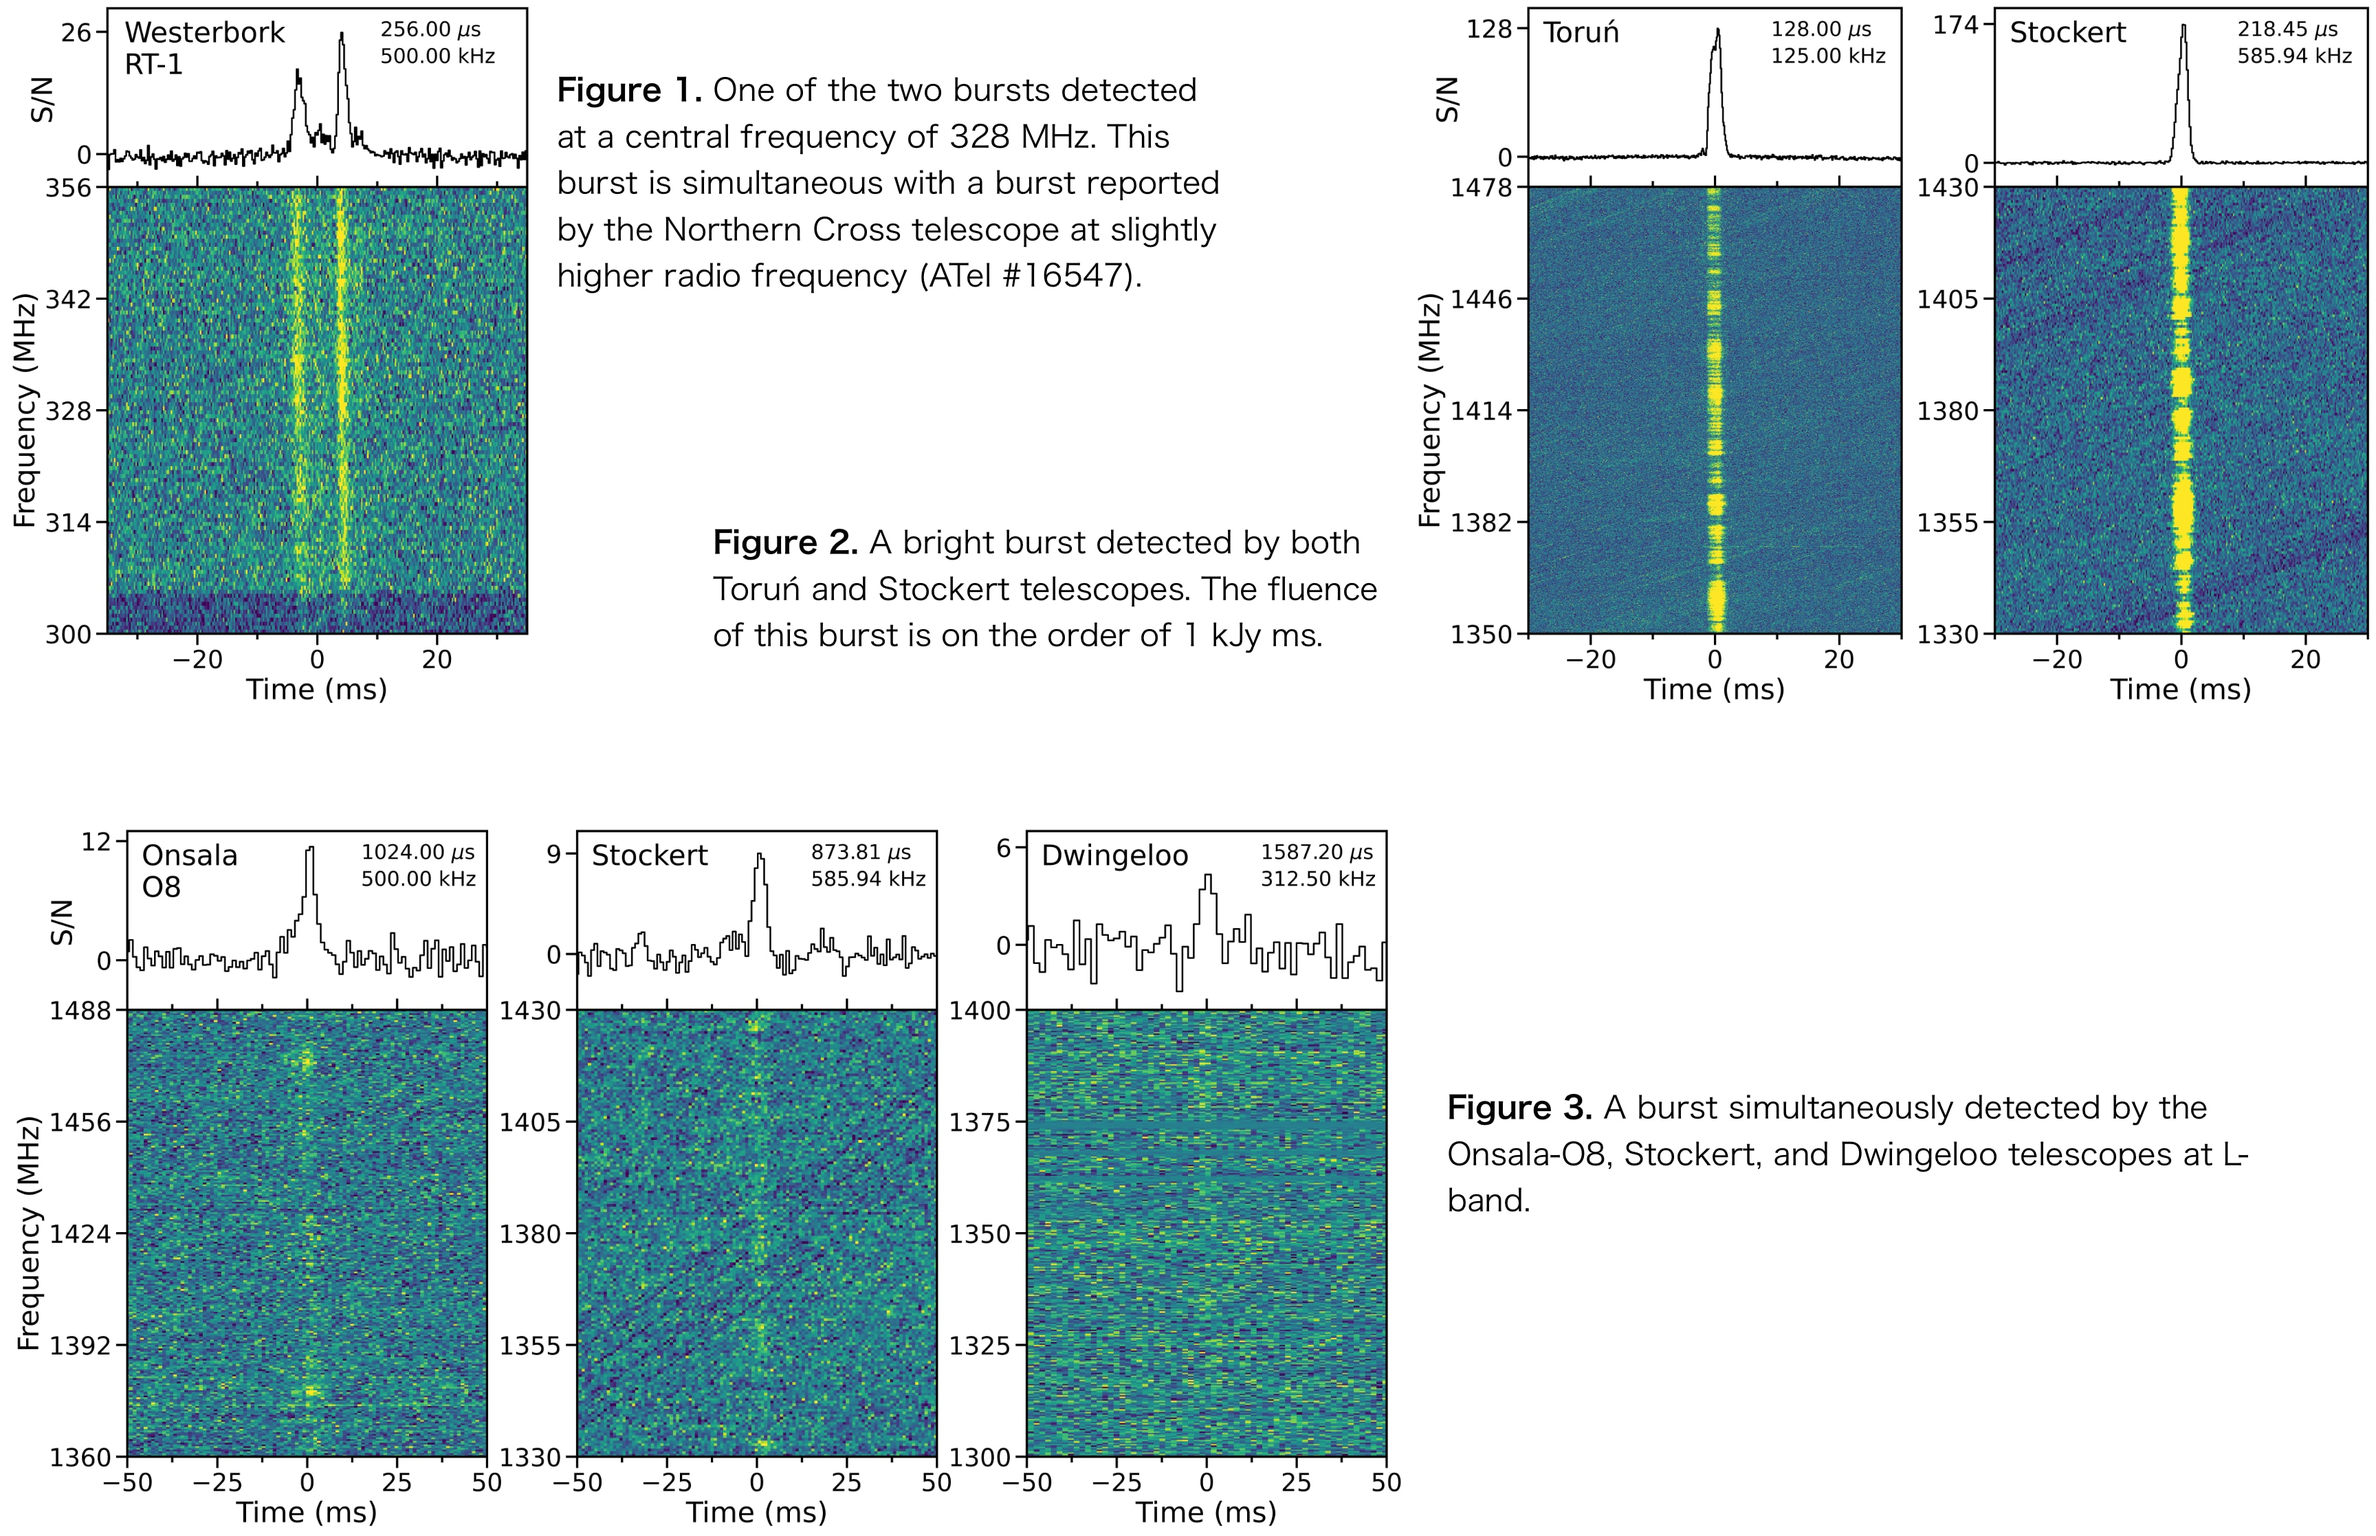
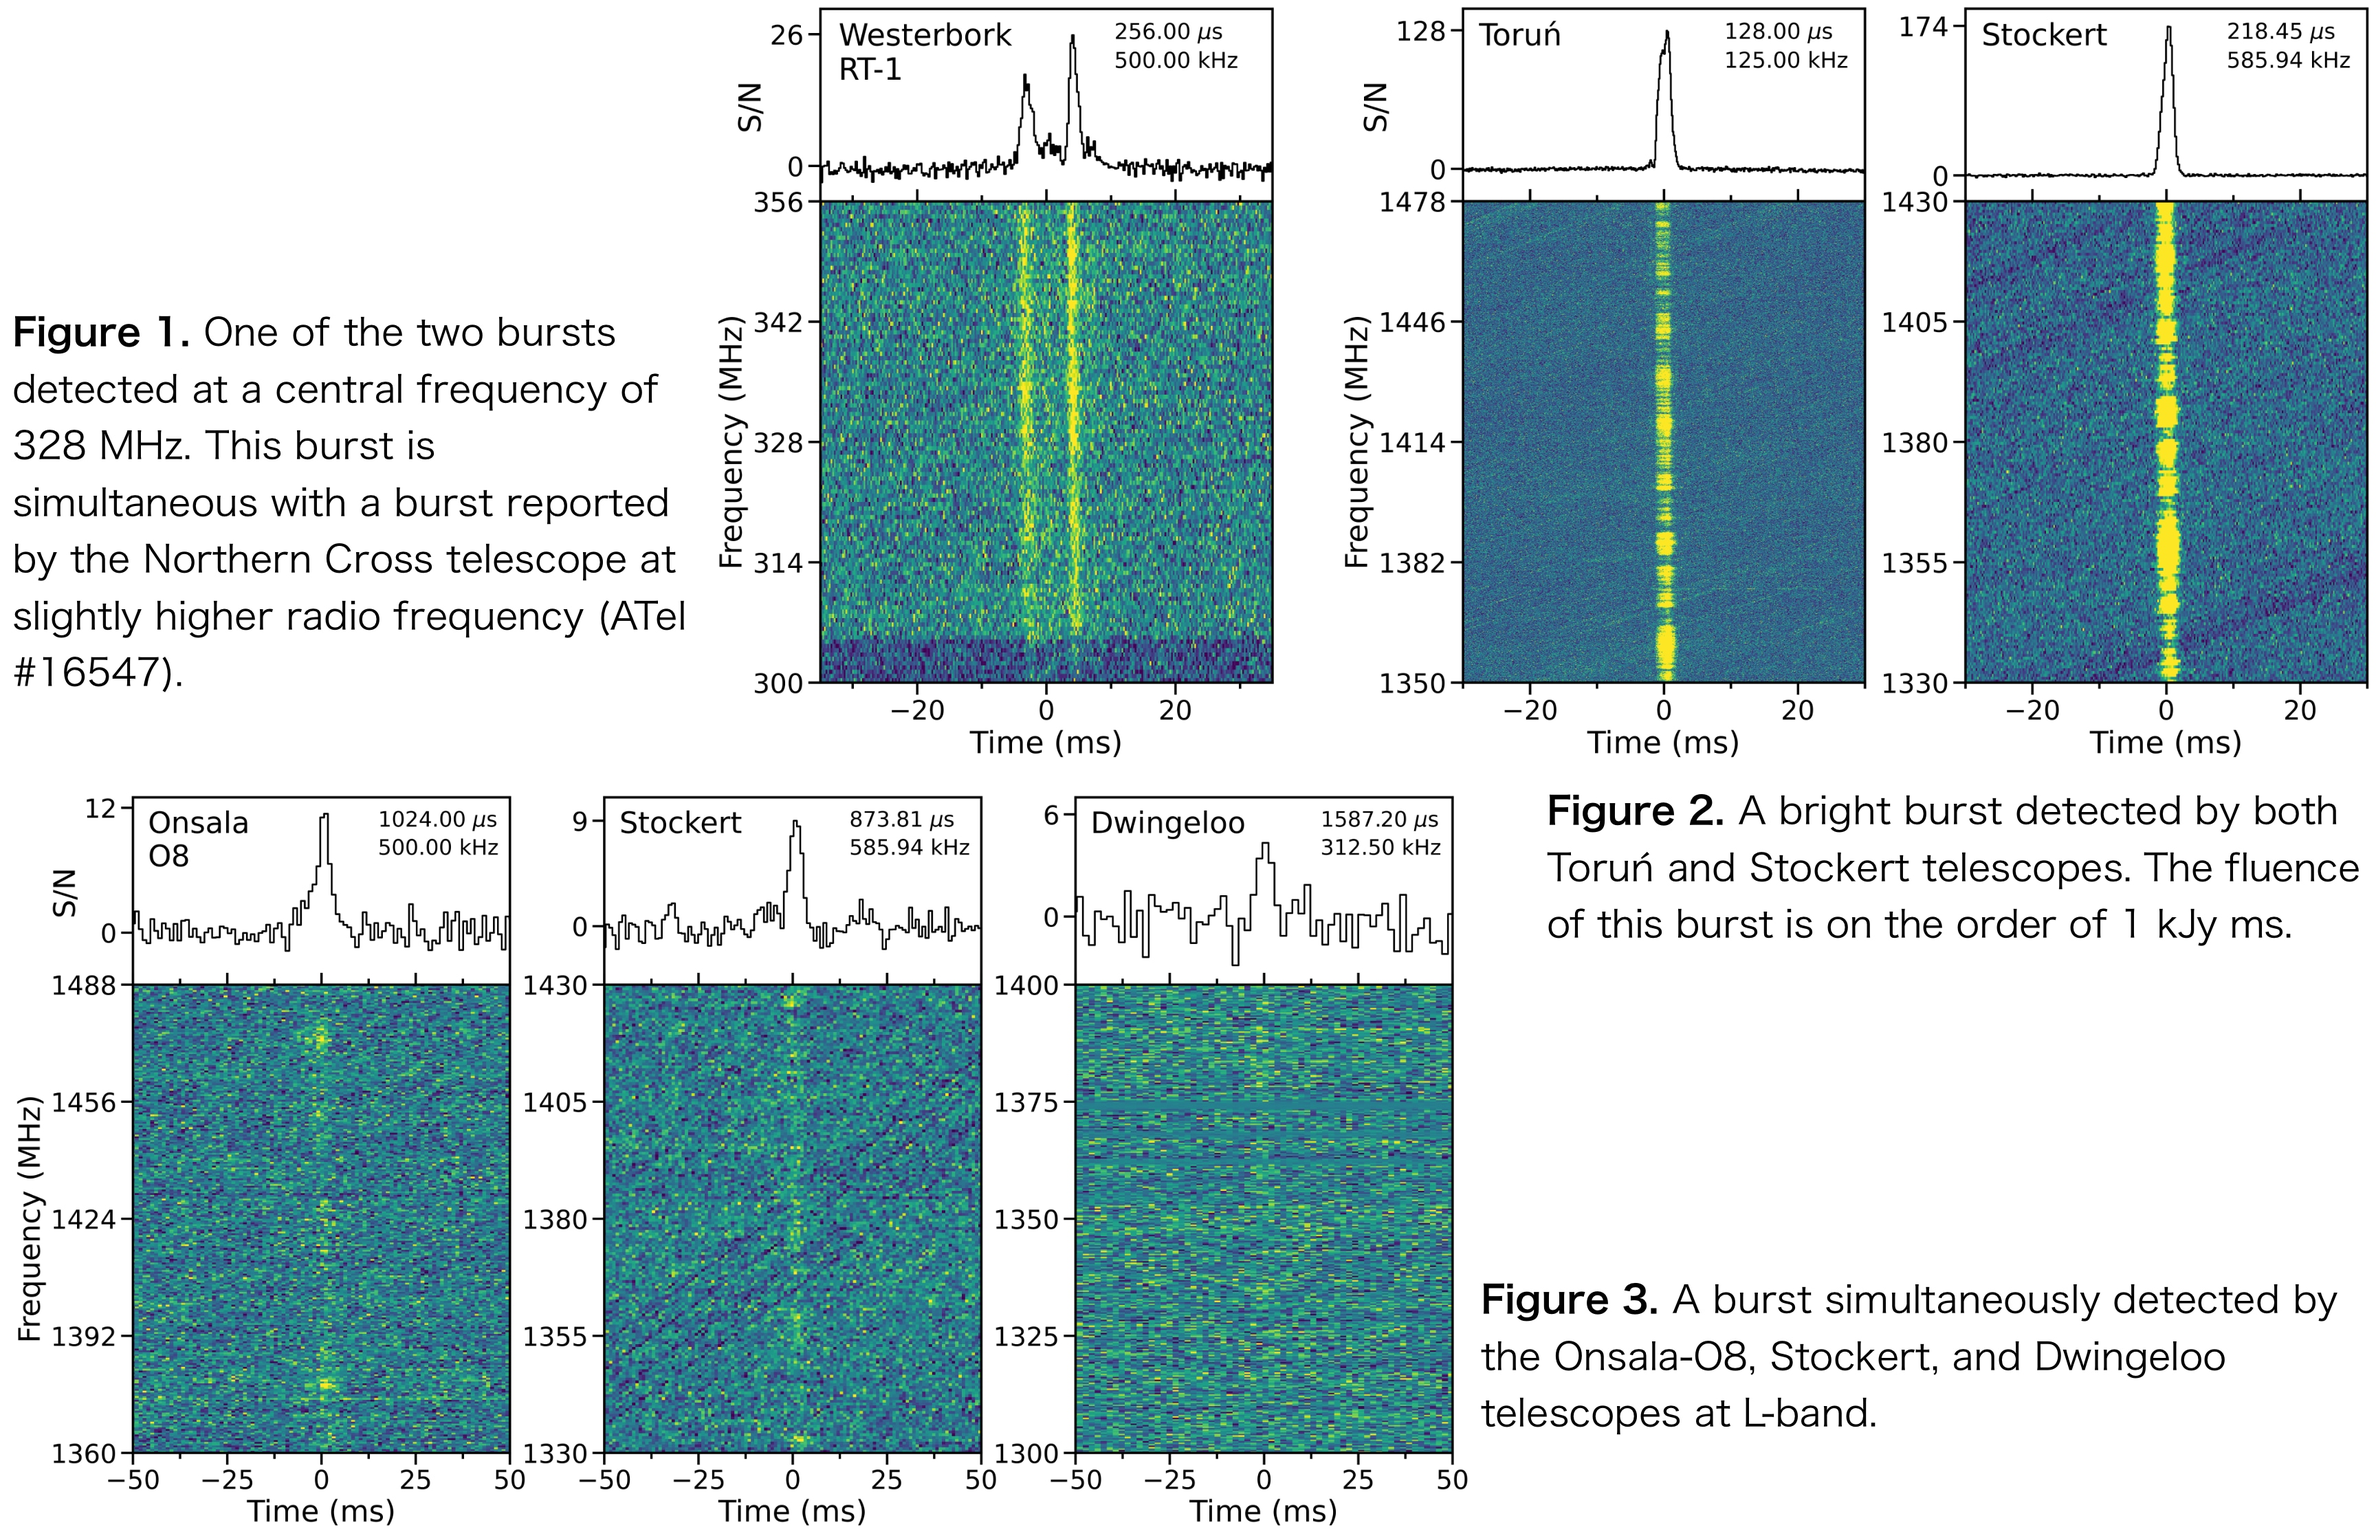
Small re-design of figure and Atel

diff --git a/blog.html b/blog.html
@@ -118,7 +118,7 @@
 			<div class="col-12">
 				<div class="isotope-nav justify-content-center" data-isotope-nav="isotope">
                     <ul>
-<li><a href="portfolio-classic.html#" class="active" data-filter="*">All</a></li><li><a href="portfolio-classic.html#" data-filter=".other">Other</a></li><li><a href="portfolio-classic.html#" data-filter=".paper">Papers</a></li><li><a href="portfolio-classic.html#" data-filter=".atel">ATels</a></li></ul>
+<li><a href="portfolio-classic.html#" class="active" data-filter="*">All</a></li><li><a href="portfolio-classic.html#" data-filter=".paper">Papers</a></li><li><a href="portfolio-classic.html#" data-filter=".other">Other</a></li><li><a href="portfolio-classic.html#" data-filter=".atel">ATels</a></li></ul>
 				</div>
 			</div>
 		</div><!-- Isotope filter end -->
@@ -145,8 +145,8 @@
                         </div>
                     </div>
                     <div class="post-body">
-                        <p>We report on our ongoing high-cadence monitoring campaign of the actively repeating fast radio burst source FRB 20240114 (<a href='http://astronomerstelegram.org/?read=16420'>ATel #16420</a>). Since its discovery by CHIME/FRB in January 2024 (<a href='http://astronomerstelegram.org/?read=16420'>ATel #16420</a>), we have been observing FRB 20240114 daily at P-band (0.33 GHz), L-band (1.4 GHz) and C-band (4.5 GHz) using a set of five small 25-32 meter European radio telescopes. The participating telescopes are the 25-m RT-1 Westerbork dish (the Netherlands), the 25-m Stockert dish (Germany), the 32-m Torun dish (Poland), the 25-m O8 Onsala dish (Sweden), and the 25-m Dwingeloo dish (the Netherlands). Whenever possible, the telescopes observe simultaneously at complementary wavelengths.<br>
-To date, we have accumulated over 1250 hours of exposure time between all five telescopes, which reduces to 600 hours of unique on-source time when accounting for simultaneous observations. So far, we have detected 111 unique bursts, of which 34 were detected by multiple telescopes at the same time, though never at multiple frequency bands simultaneously. All bursts have a fluence higher than our completeness threshold of about 10 Jy ms and the brightest bursts have a fluence on the order of 1 kJy ms. Two bursts were detected at P-band: we previously reported one of these (<a href='http://astronomerstelegram.org/?read=16432'>ATel #16432</a>) and the second is simultaneous with a burst reported by the Northern Cross telescope at slightly higher radio frequency (<a href='http://astronomerstelegram.org/?read=16547'>ATel #16547</a>). The other 109 bursts are all detected at L-band; we have not detected bursts at C-band.<br>
+                        <p>We report on our ongoing high-cadence monitoring campaign of the actively repeating fast radio burst source FRB 20240114 (<a href='http://astronomerstelegram.org/?read=16420'>ATel #16420</a>). Since its discovery by CHIME/FRB in January 2024 (<a href='http://astronomerstelegram.org/?read=16420'>ATel #16420</a>), we have been observing FRB 20240114 daily at P-band (0.33 GHz), L-band (1.4 GHz) and C-band (4.5 GHz) using a set of five small 25-32 meter European radio telescopes. The participating telescopes are the 25-m RT-1 Westerbork telescope (the Netherlands), the 25-m Stockert telescope (Germany), the 32-m Torun telescope (Poland), the 25-m Onsala O8 telescope (Sweden), and the 25-m Dwingeloo dish (the Netherlands). Whenever possible, the telescopes observe simultaneously at complementary wavelengths.<br><br>
+To date, we have accumulated over 1250 hours of exposure time between all five telescopes, which reduces to 600 hours of unique on-source time when accounting for simultaneous observations. So far, we have detected 111 unique bursts, of which 34 were detected by multiple telescopes at the same time, though never at multiple frequency bands simultaneously. All bursts have a fluence higher than our completeness threshold of about 10 Jy ms and the brightest bursts have a fluence on the order of 1 kJy ms. Two bursts were detected at P-band: we previously reported one of these (<a href='http://astronomerstelegram.org/?read=16432'>ATel #16432</a>) and the second is simultaneous with a burst reported by the Northern Cross telescope at slightly higher radio frequency (<a href='http://astronomerstelegram.org/?read=16547'>ATel #16547</a>). The other 109 bursts are all detected at L-band; we have not detected bursts at C-band.<br><br>
 Our campaign is still ongoing and we will continue to monitor the source for up to 11 hours per day, the full time it is above the local telescope horizons in Europe. We encourage simultaneous observations at other wavelengths, and we are open to collaborate on multi-wavelength studies by providing precise burst arrival times, fluences, and other information.</p>
                         <p>Ould-Boukattine et al. 2024, The Astronomer's Telegram, No. XXXXX.</p>
                     </div>

diff --git a/blog/20240402_frb20240114a_Ould-Boukattine.html b/blog/20240402_frb20240114a_Ould-Boukattine.html
@@ -137,8 +137,8 @@
                         </div>
                     </div>
                     <div class="post-body">
-                        <p>We report on our ongoing high-cadence monitoring campaign of the actively repeating fast radio burst source FRB 20240114 (<a href='http://astronomerstelegram.org/?read=16420'>ATel #16420</a>). Since its discovery by CHIME/FRB in January 2024 (<a href='http://astronomerstelegram.org/?read=16420'>ATel #16420</a>), we have been observing FRB 20240114 daily at P-band (0.33 GHz), L-band (1.4 GHz) and C-band (4.5 GHz) using a set of five small 25-32 meter European radio telescopes. The participating telescopes are the 25-m RT-1 Westerbork dish (the Netherlands), the 25-m Stockert dish (Germany), the 32-m Torun dish (Poland), the 25-m O8 Onsala dish (Sweden), and the 25-m Dwingeloo dish (the Netherlands). Whenever possible, the telescopes observe simultaneously at complementary wavelengths.<br>
-To date, we have accumulated over 1250 hours of exposure time between all five telescopes, which reduces to 600 hours of unique on-source time when accounting for simultaneous observations. So far, we have detected 111 unique bursts, of which 34 were detected by multiple telescopes at the same time, though never at multiple frequency bands simultaneously. All bursts have a fluence higher than our completeness threshold of about 10 Jy ms and the brightest bursts have a fluence on the order of 1 kJy ms. Two bursts were detected at P-band: we previously reported one of these (<a href='http://astronomerstelegram.org/?read=16432'>ATel #16432</a>) and the second is simultaneous with a burst reported by the Northern Cross telescope at slightly higher radio frequency (<a href='http://astronomerstelegram.org/?read=16547'>ATel #16547</a>). The other 109 bursts are all detected at L-band; we have not detected bursts at C-band.<br>
+                        <p>We report on our ongoing high-cadence monitoring campaign of the actively repeating fast radio burst source FRB 20240114 (<a href='http://astronomerstelegram.org/?read=16420'>ATel #16420</a>). Since its discovery by CHIME/FRB in January 2024 (<a href='http://astronomerstelegram.org/?read=16420'>ATel #16420</a>), we have been observing FRB 20240114 daily at P-band (0.33 GHz), L-band (1.4 GHz) and C-band (4.5 GHz) using a set of five small 25-32 meter European radio telescopes. The participating telescopes are the 25-m RT-1 Westerbork telescope (the Netherlands), the 25-m Stockert telescope (Germany), the 32-m Torun telescope (Poland), the 25-m Onsala O8 telescope (Sweden), and the 25-m Dwingeloo dish (the Netherlands). Whenever possible, the telescopes observe simultaneously at complementary wavelengths.<br><br>
+To date, we have accumulated over 1250 hours of exposure time between all five telescopes, which reduces to 600 hours of unique on-source time when accounting for simultaneous observations. So far, we have detected 111 unique bursts, of which 34 were detected by multiple telescopes at the same time, though never at multiple frequency bands simultaneously. All bursts have a fluence higher than our completeness threshold of about 10 Jy ms and the brightest bursts have a fluence on the order of 1 kJy ms. Two bursts were detected at P-band: we previously reported one of these (<a href='http://astronomerstelegram.org/?read=16432'>ATel #16432</a>) and the second is simultaneous with a burst reported by the Northern Cross telescope at slightly higher radio frequency (<a href='http://astronomerstelegram.org/?read=16547'>ATel #16547</a>). The other 109 bursts are all detected at L-band; we have not detected bursts at C-band.<br><br>
 Our campaign is still ongoing and we will continue to monitor the source for up to 11 hours per day, the full time it is above the local telescope horizons in Europe. We encourage simultaneous observations at other wavelengths, and we are open to collaborate on multi-wavelength studies by providing precise burst arrival times, fluences, and other information.</p>
                         <p>Ould-Boukattine et al. 2024, The Astronomer's Telegram, No. XXXXX.</p>
                     </div>
